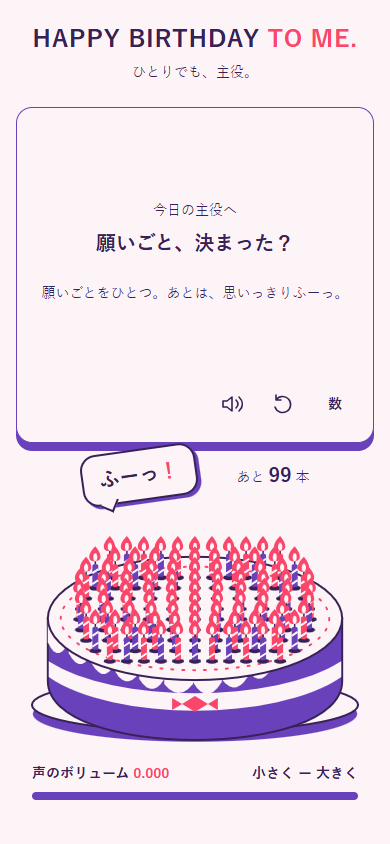
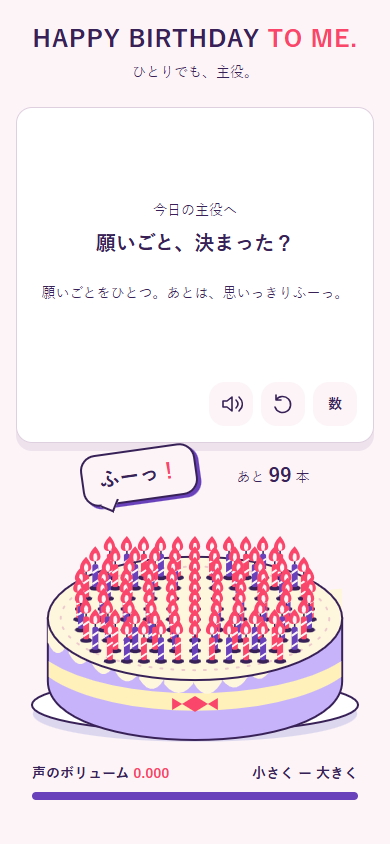
Restore original card and cake colors

diff --git a/dist/style.css b/dist/style.css
@@ -11,6 +11,16 @@
   --color-text: #372157;
   --color-accent: #6841bb;
   --color-emphasis: #fa466b;
+  --color-card: #ffffff;
+  --color-input: #fcfafd;
+  --color-border: #dfd0e0;
+  --color-input-border: #c9bacc;
+  --color-shadow: #eee2ec;
+  --color-cake-plate: #dcd6ee;
+  --color-cake-side: #c6b3fa;
+  --color-cake-cream: #fff6de;
+  --color-cake-stripe: #fff1b9;
+  --color-cake-dots: #edcbcd;
   --radius: 16px;
   color-scheme: light;
   font-family: ui-rounded, "Hiragino Maru Gothic ProN", "Yu Gothic", system-ui, sans-serif;
@@ -32,14 +42,14 @@ button:focus-visible, input:focus-visible { outline: 3px solid var(--color-accen
 .brand h1 span { color: var(--color-emphasis); }
 .brand p { margin: var(--space-1) 0 0; font-size: var(--font-small); line-height: 1.5; }
 
-.message-card { position: relative; height: 336px; padding: var(--space-3); border: 1px solid var(--color-accent); border-radius: var(--radius); background: var(--color-background); box-shadow: 0 var(--space-1) 0 var(--color-accent); }
+.message-card { position: relative; height: 336px; padding: var(--space-3); border: 1px solid var(--color-border); border-radius: var(--radius); background: var(--color-card); box-shadow: 0 var(--space-1) 0 var(--color-shadow); }
 #setup { height: 100%; display: flex; flex-direction: column; gap: var(--space-1); }
 .card-heading { text-align: center; }
 .card-heading p { margin: 0 0 var(--space-1); font-size: var(--font-small); line-height: 1.5; }
 .card-heading h2 { margin: 0; font-size: var(--font-medium); font-weight: 900; line-height: 1.45; }
 .field label { display: flex; justify-content: space-between; gap: var(--space-1); margin-bottom: var(--space-1); font-size: var(--font-small); font-weight: 700; line-height: 1.5; }
 .field label span { font-weight: 400; }
-input { width: 100%; height: 44px; min-width: 0; padding: var(--space-1) var(--space-2); border: 1px solid var(--color-accent); border-radius: var(--radius); background: var(--color-background); color: var(--color-text); font-size: var(--font-small); }
+input { width: 100%; height: 44px; min-width: 0; padding: var(--space-1) var(--space-2); border: 1px solid var(--color-input-border); border-radius: var(--radius); background: var(--color-input); color: var(--color-text); font-size: var(--font-small); }
 .number-field { position: relative; }
 .number-field input { padding-right: var(--space-4); }
 .number-field > span { position: absolute; top: var(--space-2); right: var(--space-2); font-size: var(--font-small); pointer-events: none; }

diff --git a/dist/index.html b/dist/index.html
@@ -40,13 +40,13 @@
       </div>
       <button id="cake-button" class="cake-button" type="button" aria-label="ケーキをタップしてろうそくを消す" disabled>
           <svg id="cake" viewBox="0 95 360 230" role="img" aria-labelledby="cake-title"><title id="cake-title">5本のろうそくが立ったケーキ</title>
-            <ellipse cx="180" cy="295" rx="163" ry="28" fill="var(--color-accent)"/>
-            <ellipse cx="180" cy="286" rx="164" ry="27" fill="var(--color-background)" stroke="var(--color-text)" stroke-width="2"/>
-            <path d="M32 199v63c0 79 296 79 296 0v-63Z" fill="var(--color-accent)" stroke="var(--color-text)" stroke-width="2"/>
-            <path d="M33 242c65 43 228 43 294 0v16c-65 45-229 45-294 0Z" fill="var(--color-background)"/>
-            <path d="M32 199v24q10 22 21 0v11q12 22 23 0v10q12 22 24 0v9q12 19 24 0v7q13 20 25 0v5q15 18 29 0v-2q14 24 29 0v-3q13 18 26-2v-7q12 19 25-3v-10q13 18 24-4v-10q13 14 24-8v-11q12 10 22-9v-27Z" fill="var(--color-background)"/>
-            <ellipse cx="180" cy="199" rx="148" ry="62" fill="var(--color-background)" stroke="var(--color-text)" stroke-width="2"/>
-            <ellipse cx="180" cy="199" rx="135" ry="52" fill="none" stroke="var(--color-emphasis)" stroke-width="2" stroke-dasharray="2 9" stroke-linecap="round"/>
+            <ellipse cx="180" cy="295" rx="163" ry="28" fill="var(--color-cake-plate)"/>
+            <ellipse cx="180" cy="286" rx="164" ry="27" fill="var(--color-card)" stroke="var(--color-text)" stroke-width="2"/>
+            <path d="M32 199v63c0 79 296 79 296 0v-63Z" fill="var(--color-cake-side)" stroke="var(--color-text)" stroke-width="2"/>
+            <path d="M33 242c65 43 228 43 294 0v16c-65 45-229 45-294 0Z" fill="var(--color-cake-stripe)"/>
+            <path d="M32 199v24q10 22 21 0v11q12 22 23 0v10q12 22 24 0v9q12 19 24 0v7q13 20 25 0v5q15 18 29 0v-2q14 24 29 0v-3q13 18 26-2v-7q12 19 25-3v-10q13 18 24-4v-10q13 14 24-8v-11q12 10 22-9v-27Z" fill="var(--color-cake-cream)"/>
+            <ellipse cx="180" cy="199" rx="148" ry="62" fill="var(--color-cake-cream)" stroke="var(--color-text)" stroke-width="2"/>
+            <ellipse cx="180" cy="199" rx="135" ry="52" fill="none" stroke="var(--color-cake-dots)" stroke-width="2" stroke-dasharray="2 9" stroke-linecap="round"/>
             <g id="candles"></g>
             <path d="m167 285 13-8 13 8-13 8Z" fill="var(--color-emphasis)"/><path d="m167 285-10-6v12Zm26 0 10-6v12Z" fill="var(--color-emphasis)"/>
           </svg>
